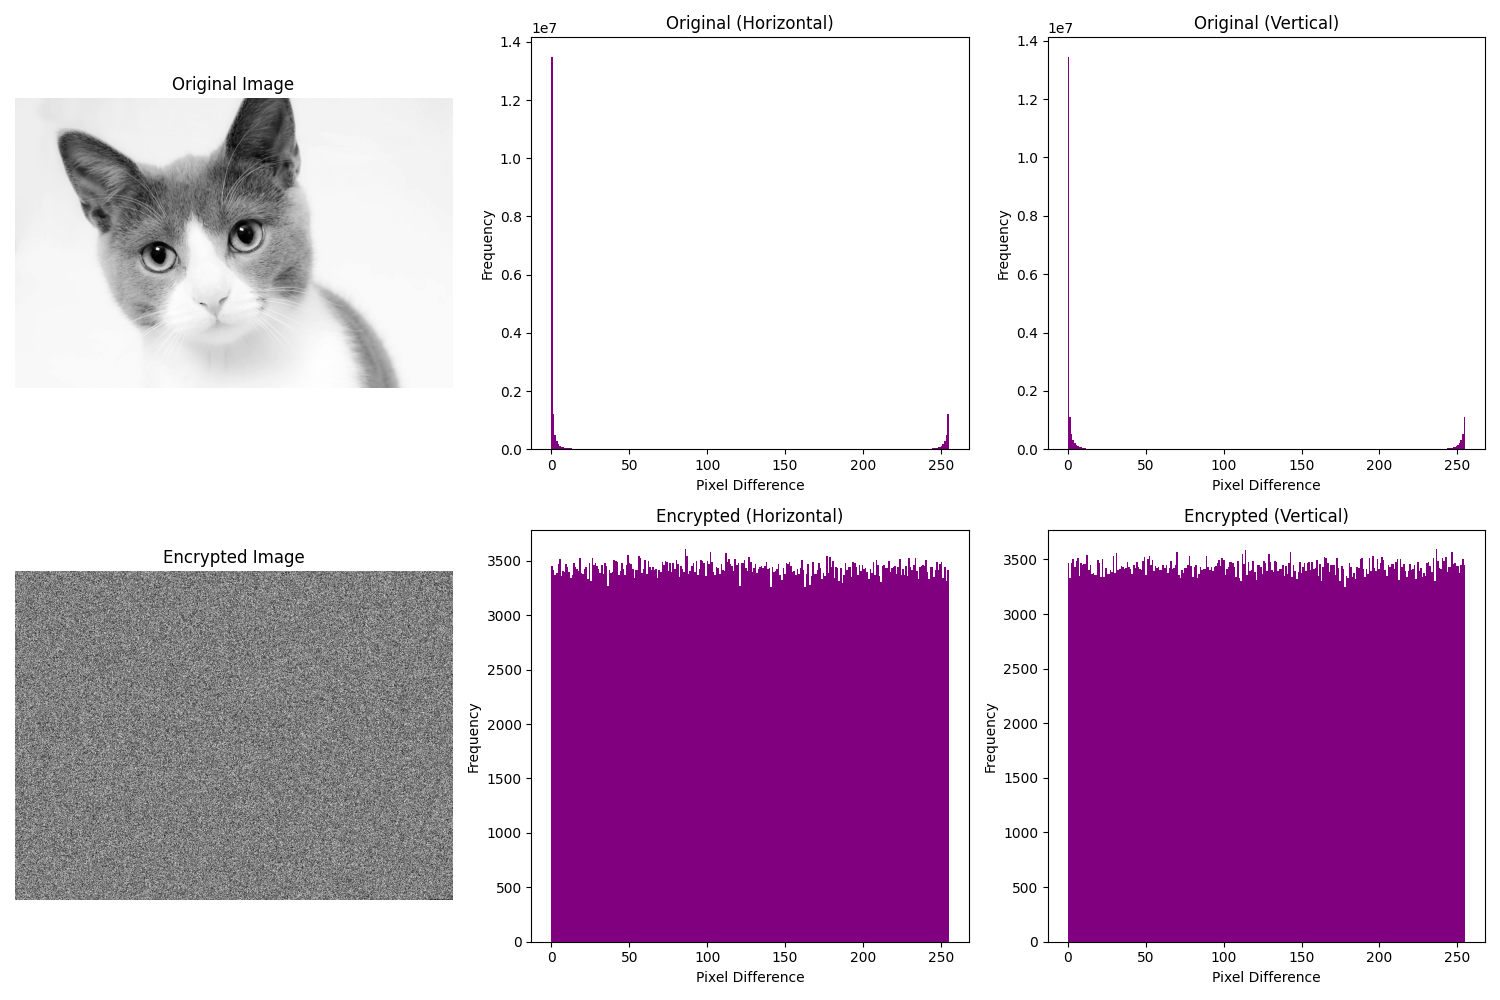
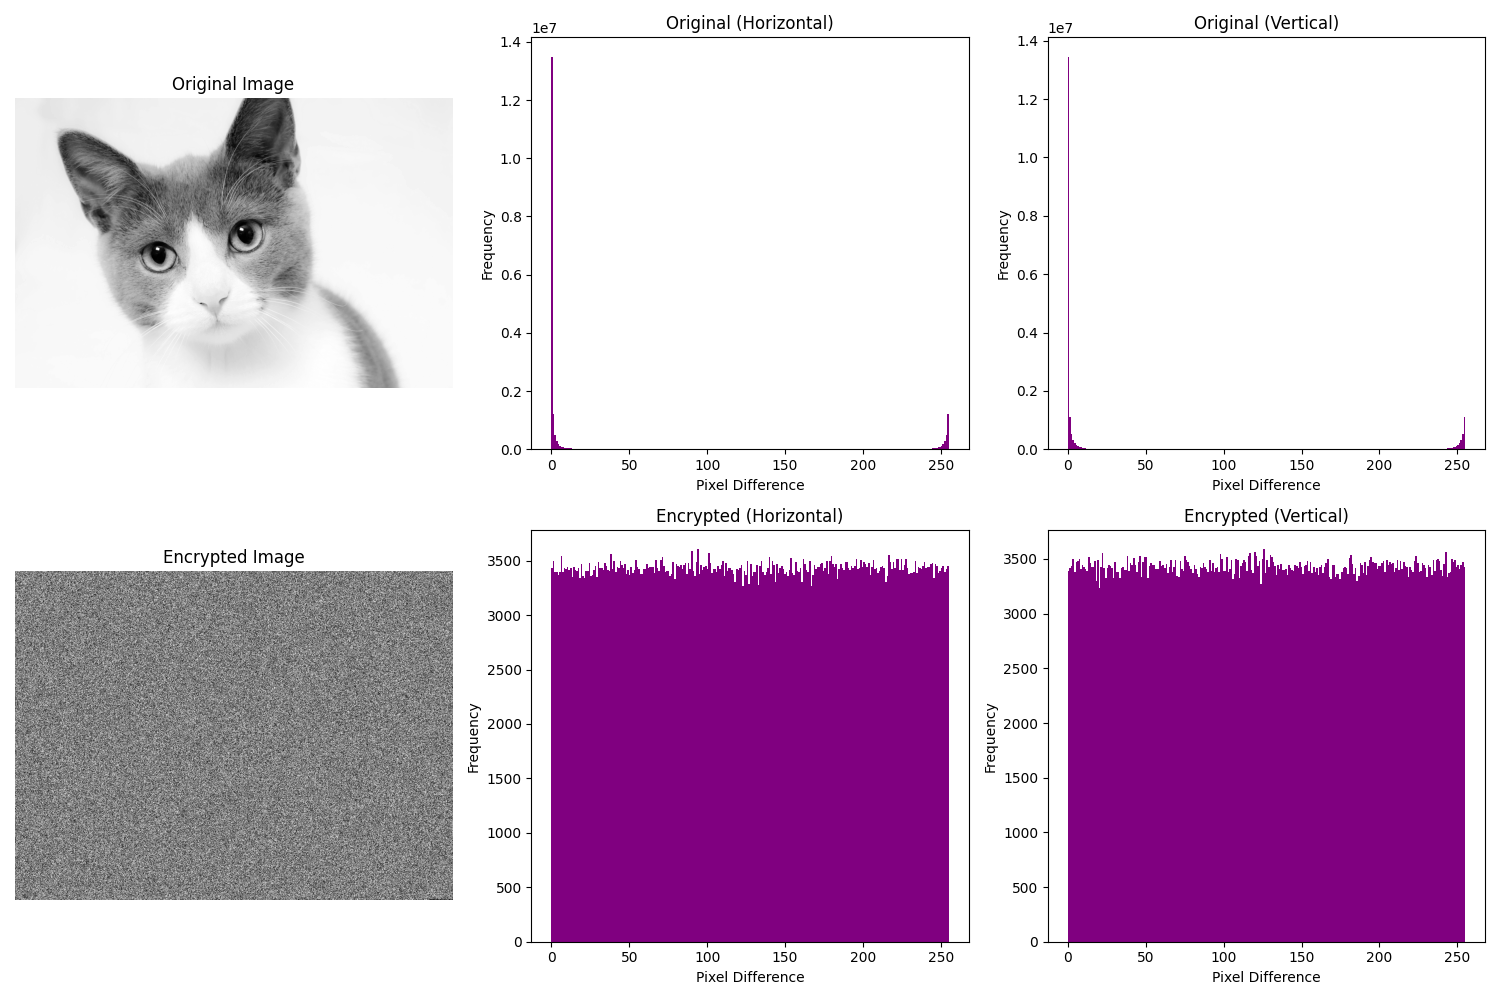
[nadeem] fix

Changed region(s): [[0.0, 0.558, 0.3067, 0.899], [0.7053, 0.558, 0.9813, 0.589], [0.368, 0.558, 0.644, 0.589]]

diff --git a/app.py b/app.py
@@ -1,6 +1,7 @@
 import os
 import io
 import time
+import ast
 import cv2
 import numpy as np
 import matplotlib.pyplot as plt
@@ -15,8 +16,7 @@ from scipy.stats import chisquare, pearsonr
 import requests
 from io import BytesIO
 app = Flask(__name__)
-CORS(app, expose_headers=["X-Encryption-Key"])  # Allow access to custom headers
-
+CORS(app, expose_headers=["X-Encryption-Key", "X-Data-Length", "X-Iv"])
 class PrngOscillator:
     def __init__(self):
         self.params = {
@@ -75,7 +75,6 @@ class PrngOscillator:
             state.append(feedback)
         return np.array(lfsr_bits)
 def encrypt_image(image_bytes, key):
-    breakpoint()
     img = Image.open(io.BytesIO(image_bytes))
     img_buffer = io.BytesIO()
     img.save(img_buffer, format=img.format or "PNG")
@@ -86,12 +85,12 @@ def encrypt_image(image_bytes, key):
     iv = os.urandom(16)
     cipher = AES.new(key, AES.MODE_CBC, iv)
     padded_data = pad(data_to_encrypt, AES.block_size)
-    encrypted_data = iv + cipher.encrypt(padded_data)
-    return encrypted_data
+    encrypted_data = cipher.encrypt(padded_data)
+    return encrypted_data,iv
 
-def decrypt_image(encrypted_data, key):
-    breakpoint()
-    iv, ciphertext = encrypted_data[:16], encrypted_data[16:]
+def decrypt_image(encrypted_data, key,iv):
+    ciphertext = encrypted_data
+    iv = ast.literal_eval(iv)
     cipher = AES.new(key, AES.MODE_CBC, iv)
     decrypted_padded = cipher.decrypt(ciphertext)
     decrypted_data = unpad(decrypted_padded, AES.block_size)
@@ -203,7 +202,6 @@ def generate_encryption_key():
 
 @app.route('/encrypt-image', methods=['POST'])
 def encrypt_image_endpoint():
-    breakpoint()
     try:
         if 'image' not in request.files:
             return jsonify({"error": "No image uploaded"}), 400
@@ -218,7 +216,7 @@ def encrypt_image_endpoint():
         key_data = key_response 
         key_hex = key_data['key']  
         key = bytes.fromhex(key_hex)
-        encrypted_data = encrypt_image(image_bytes, key)
+        encrypted_data,iv = encrypt_image(image_bytes, key)
         data_length = len(encrypted_data)
 
         length_bytes = data_length.to_bytes(4, byteorder="big")
@@ -240,7 +238,9 @@ def encrypt_image_endpoint():
         print(key.hex())
         # Set custom headers on the response
         response.headers["X-Encryption-Key"] = key.hex()
+        response.headers['X-Iv'] = iv
         response.headers["X-Data-Length"] = str(data_length)
+
         print(response.headers)
 
         return response
@@ -253,9 +253,14 @@ def decrypt_image_endpoint():
     try:
         encrypted_file = request.files['file']
         key_hex = request.form['key']
+        iv = request.form['iv']
         key = bytes.fromhex(key_hex)
-        encrypted_data = encrypted_file.read()
-        decrypted_img, img_format = decrypt_image(encrypted_data, key)
+        encrypted_image = Image.open(encrypted_file)
+        encrypted_pixels = encrypted_image.tobytes()
+        length_bytes = encrypted_pixels[:4]
+        data_length = int.from_bytes(length_bytes, byteorder="big")
+        encrypted_data = encrypted_pixels[4:4 + data_length]
+        decrypted_img, img_format = decrypt_image(encrypted_data, key,iv)
         img_buffer = io.BytesIO()
         decrypted_img.save(img_buffer, format=img_format)
         img_buffer.seek(0)
